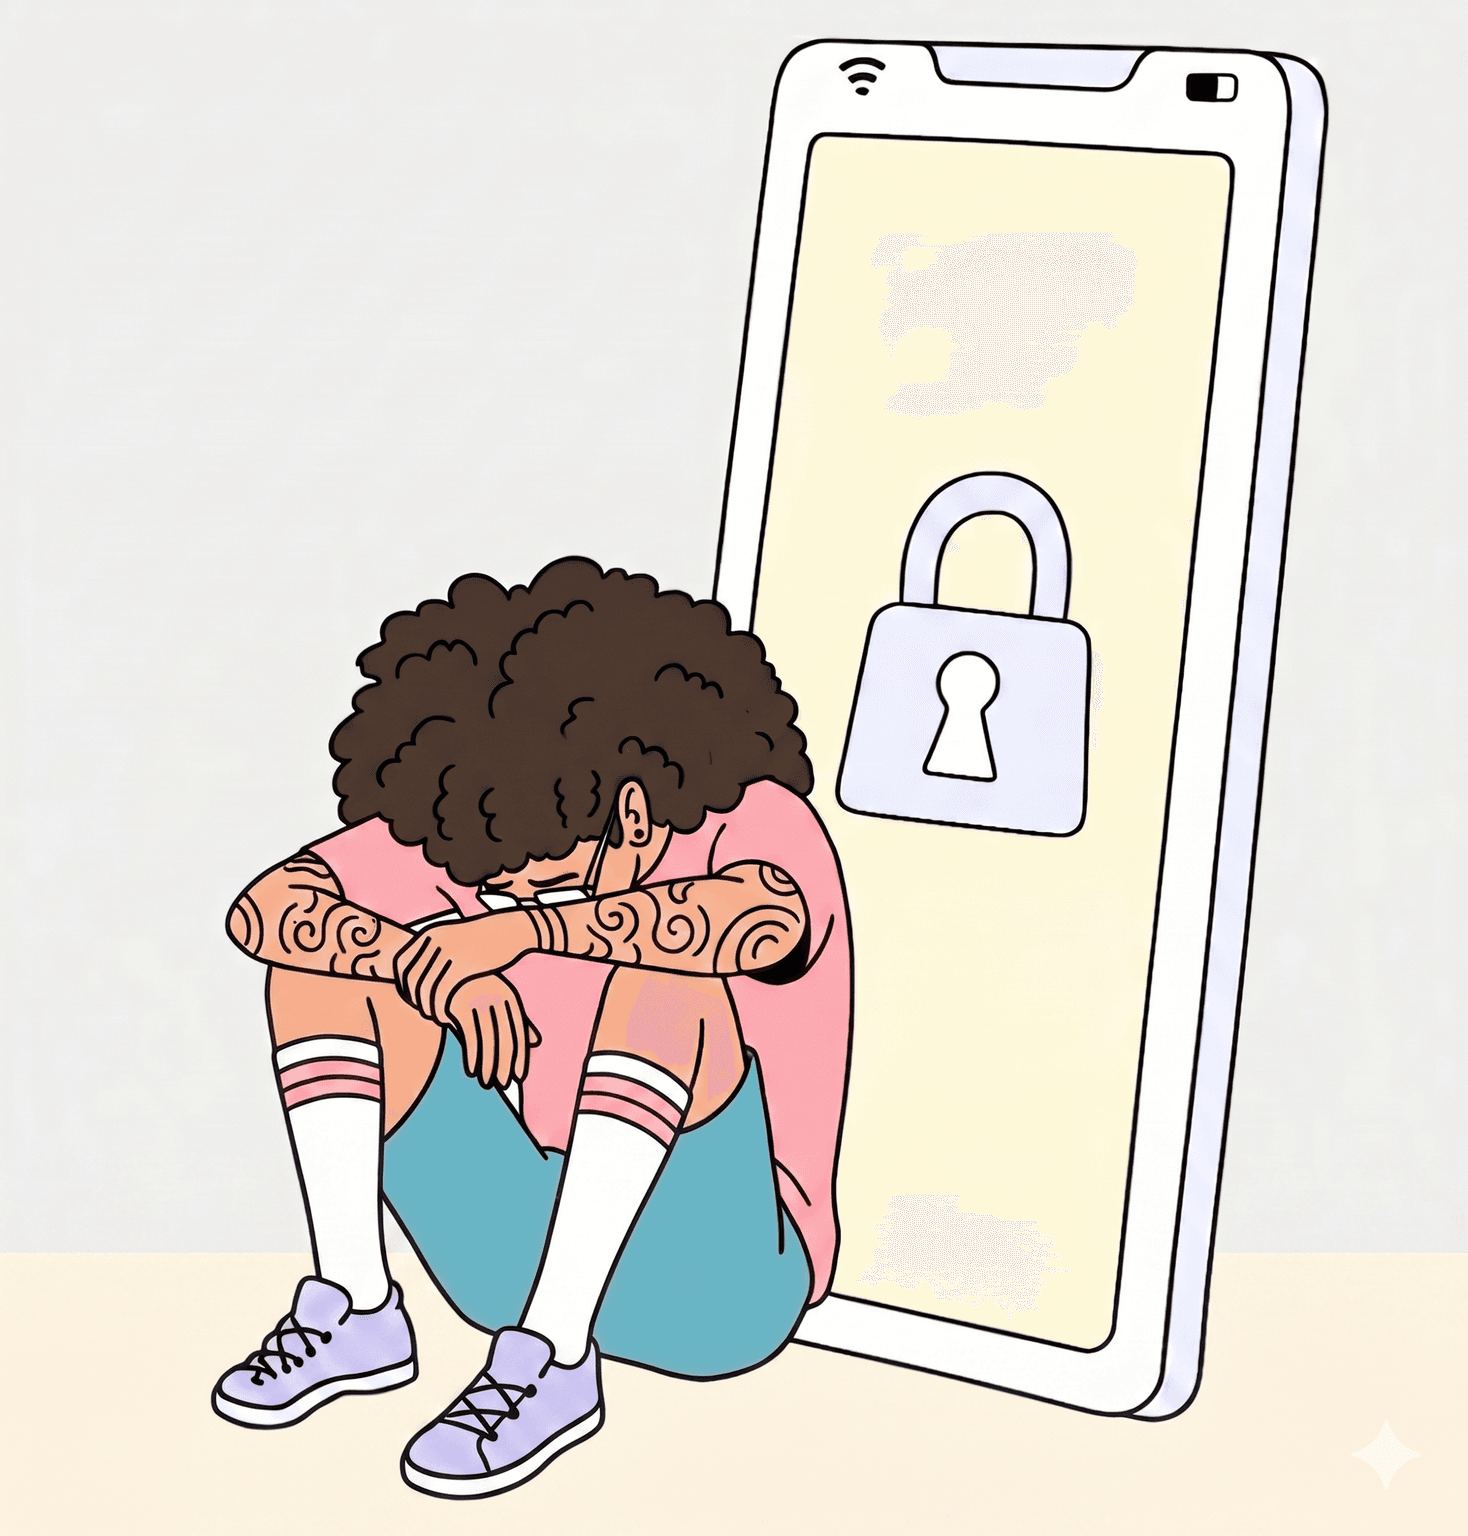
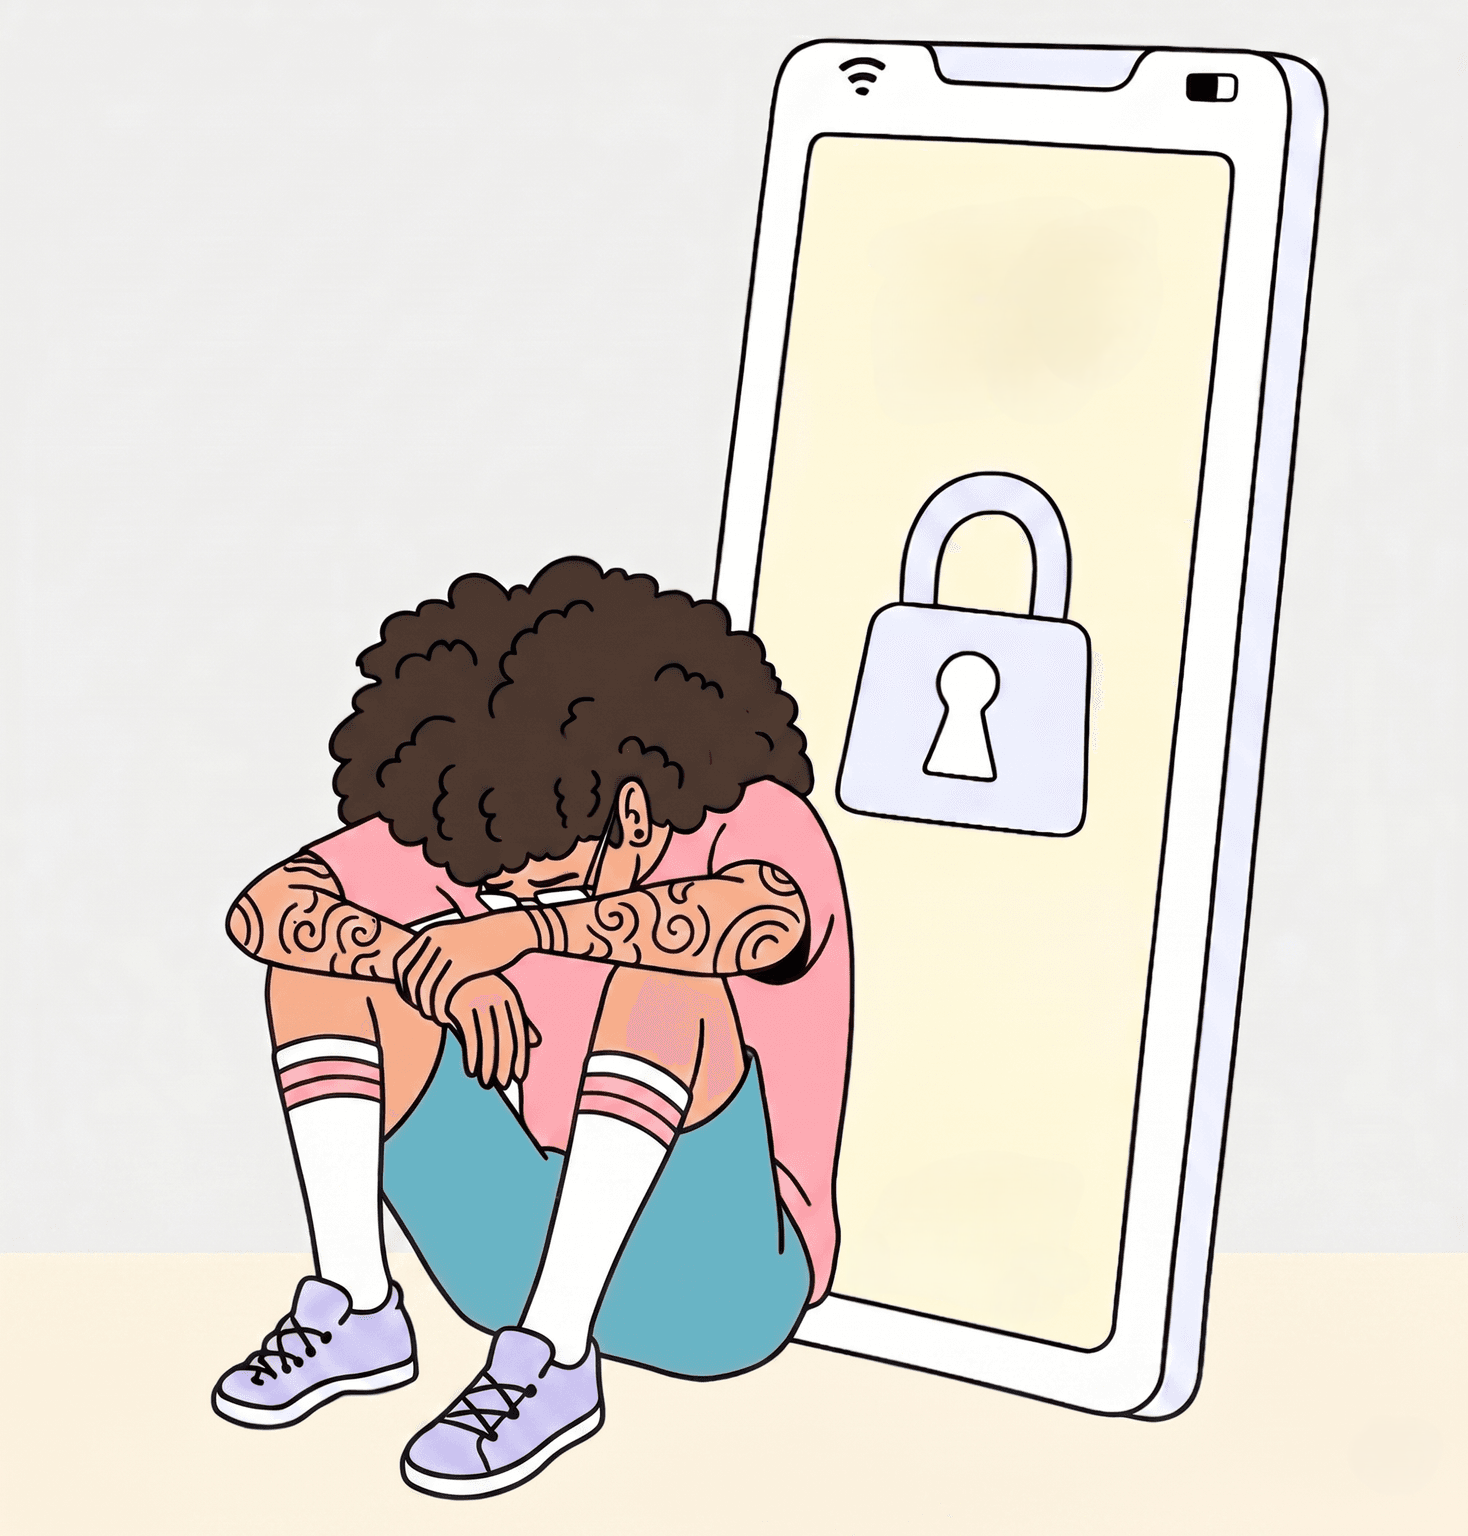
fix(onboarding): treat auth/error-code:-39 as too-many-requests
Firebase returns an internal auth/error-code:-39 (HTTP 503) for the same
SMS abuse throttle as auth/too-many-requests. Route it to the locked
screen too, so residents get the "too many attempts, wait" screen instead
of a generic retry prompt that only invites more attempts. Also refresh
the account-locked screen image.

Changed region(s): [[0.5824, 0.1562, 0.7663, 0.2812], [0.6131, 0.7812, 0.705, 0.8438]]

diff --git a/apps/web/src/features/onboarding/lib/is-too-many-requests.ts b/apps/web/src/features/onboarding/lib/is-too-many-requests.ts
@@ -1,7 +1,14 @@
 import { authErrorCode } from './auth-error'
 
-// Firebase Phone Auth rejects with a FirebaseError carrying a `.code`. When the
-// number of SMS requests or code attempts is exceeded, that code is
-// `auth/too-many-requests` — the signal to send the resident to the locked screen.
-export const isTooManyRequests = (error: unknown) =>
-  authErrorCode(error) === 'auth/too-many-requests'
+// Firebase throttles repeated SMS/verification attempts on real numbers and
+// surfaces it two ways: the documented `auth/too-many-requests`, and an
+// internal `auth/error-code:-39` (HTTP 503) the backend returns for the same
+// too-many-attempts abuse limit. Both are the signal to send the resident to
+// the locked screen — routing -39 to a generic "try again" toast only invites
+// more attempts, which deepens the throttle.
+const tooManyRequestCodes = ['auth/too-many-requests', 'auth/error-code:-39']
+
+export const isTooManyRequests = (error: unknown) => {
+  const code = authErrorCode(error)
+  return code !== undefined && tooManyRequestCodes.includes(code)
+}

diff --git a/apps/web/src/features/onboarding/lib/is-too-many-requests.test.ts b/apps/web/src/features/onboarding/lib/is-too-many-requests.test.ts
@@ -6,6 +6,10 @@ test('error-states 6 — auth/too-many-requests is a too-many-requests rejection
   expect(isTooManyRequests({ code: 'auth/too-many-requests' })).toBe(true)
 })
 
+test('error-states 6 — auth/error-code:-39 (503 abuse throttle) is a too-many-requests rejection', () => {
+  expect(isTooManyRequests({ code: 'auth/error-code:-39' })).toBe(true)
+})
+
 test('error-states 6 — a network/internal FirebaseError is not a too-many-requests rejection', () => {
   expect(isTooManyRequests({ code: 'auth/network-request-failed' })).toBe(false)
 })